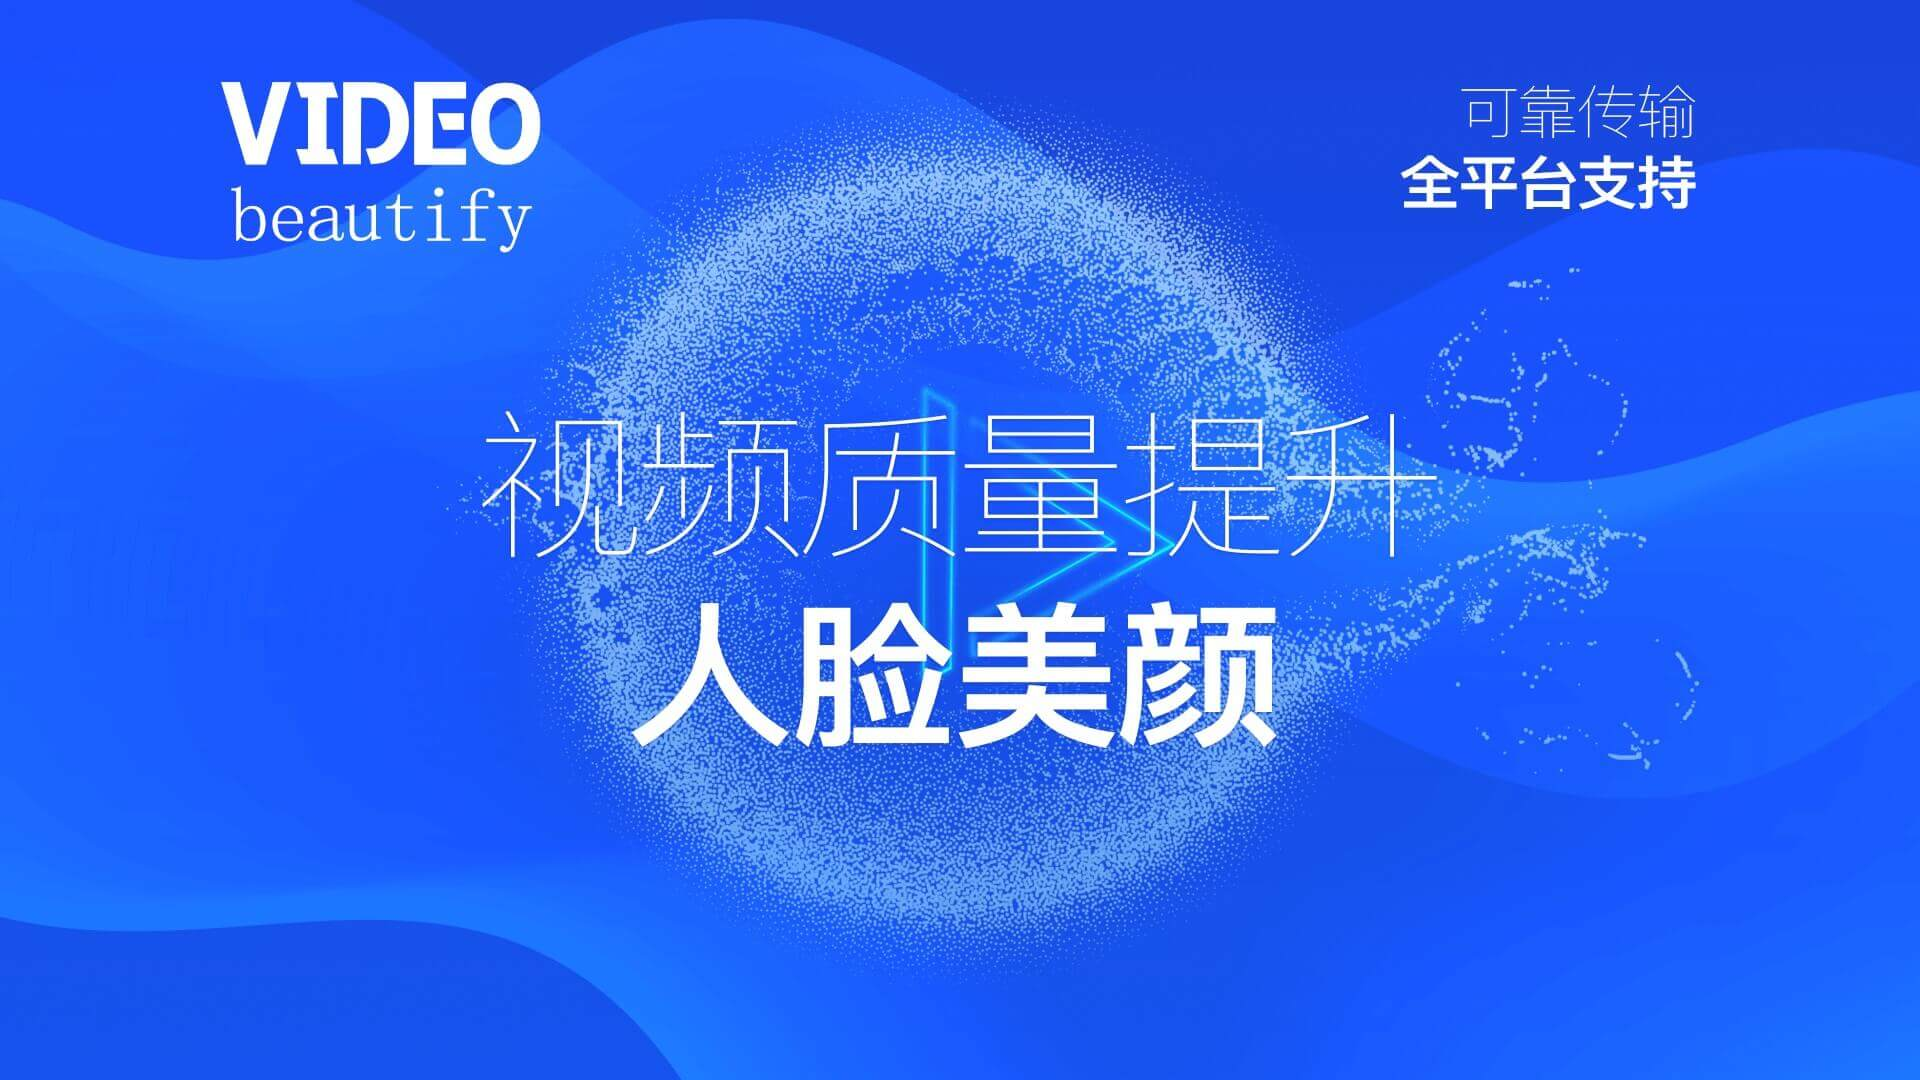
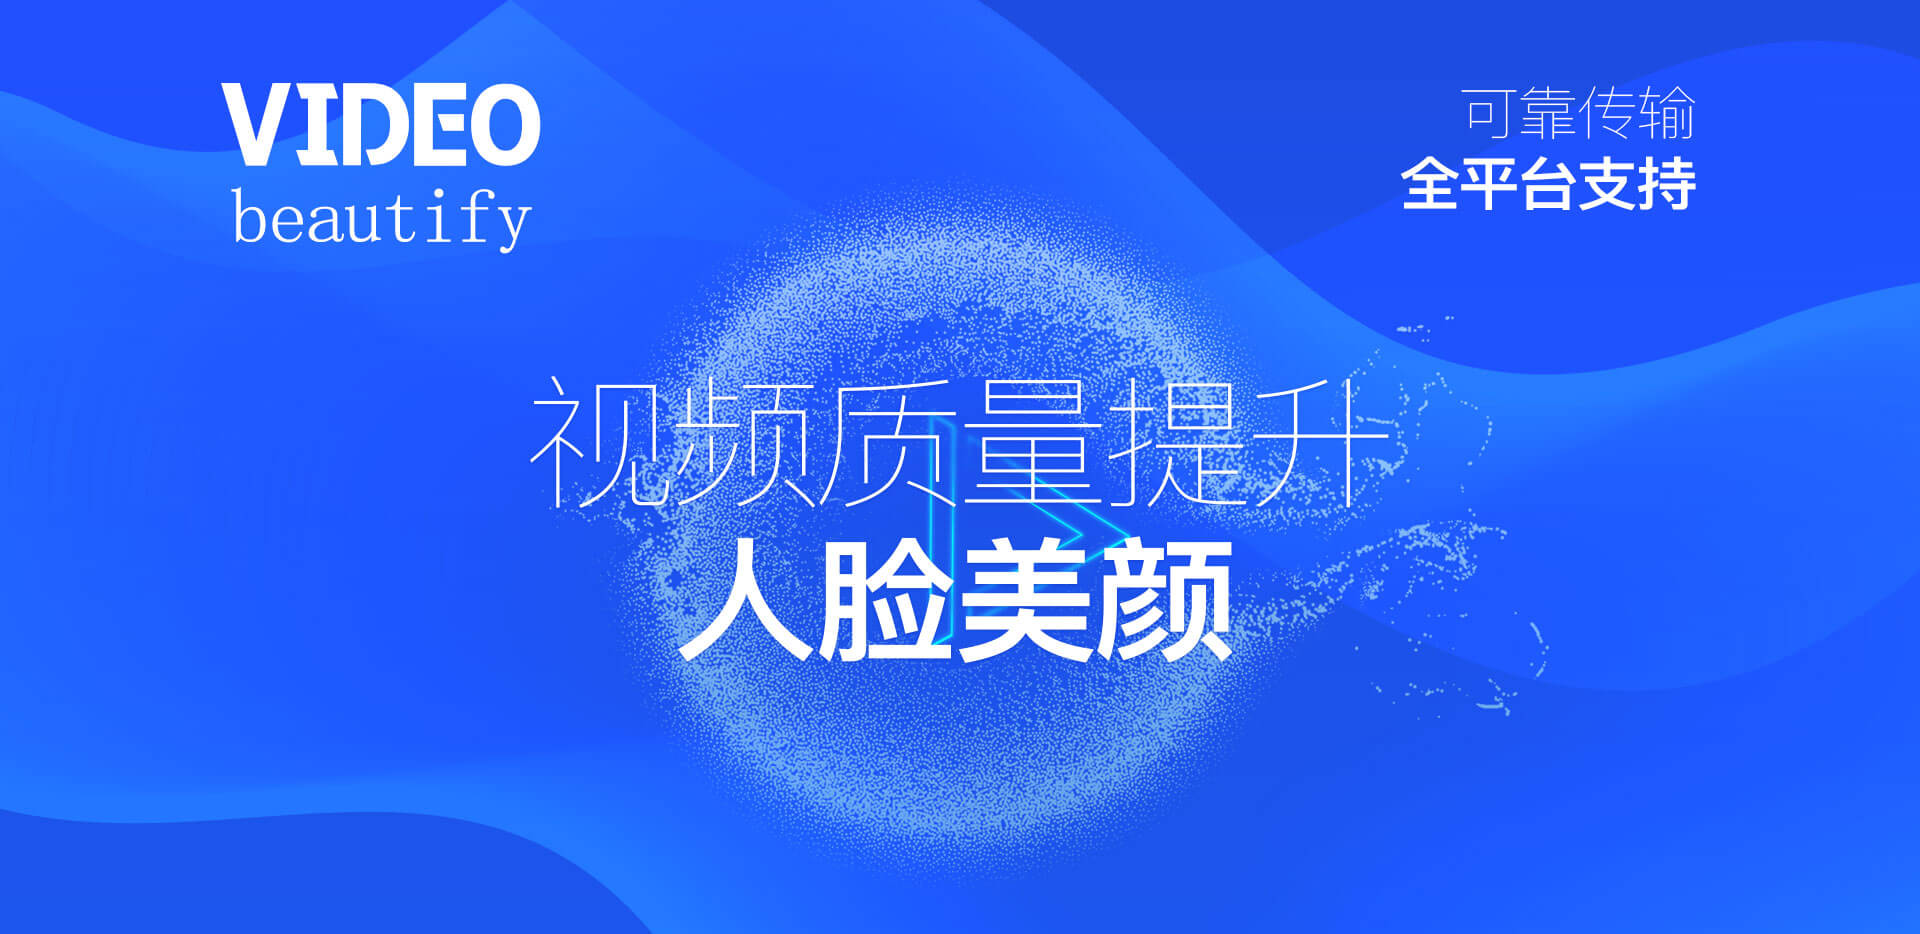
修改首页和关于页面

diff --git a/pages/about.vue b/pages/about.vue
@@ -2,12 +2,6 @@
   <div :class="cls">
     <div :class="`${cls}_banner`">
       <img class="img" src="/images/about/banner.jpg" alt="">
-      <div class="box">
-        <div>
-          <h2 class="title">{{ obj.banner.title }}</h2>
-          <p class="desc">{{ obj.banner.desc }}</p>
-        </div>
-      </div>
     </div>
     <div :class="`${cls}_about`">
       <img class="img" src="/images/about/about.jpg" alt="">
@@ -31,28 +25,6 @@ const obj = computed(() => langPkg.value.aboutPage)
     position: relative;
     .img {
       width: 100%;
-      max-height: 40rem;
-      object-fit: cover;
-    }
-    .box {
-      position: absolute;
-      top: 0;
-      right: 0;
-      bottom: 0;
-      left: 0;
-      display: flex;
-      align-items: center;
-      justify-content: center;
-      color: #fff;
-      text-align: center;
-    }
-    .title {
-      font-size: 2.8rem;
-      margin-bottom: 1rem;
-      font-weight: normal;
-    }
-    .desc {
-      font-size: 1.3rem;
     }
   }
   &_about {
@@ -62,7 +34,6 @@ const obj = computed(() => langPkg.value.aboutPage)
     .img {
       flex: 1;
       width: 0;
-      max-width: 30rem;
       object-fit: cover;
     }
     .box {
